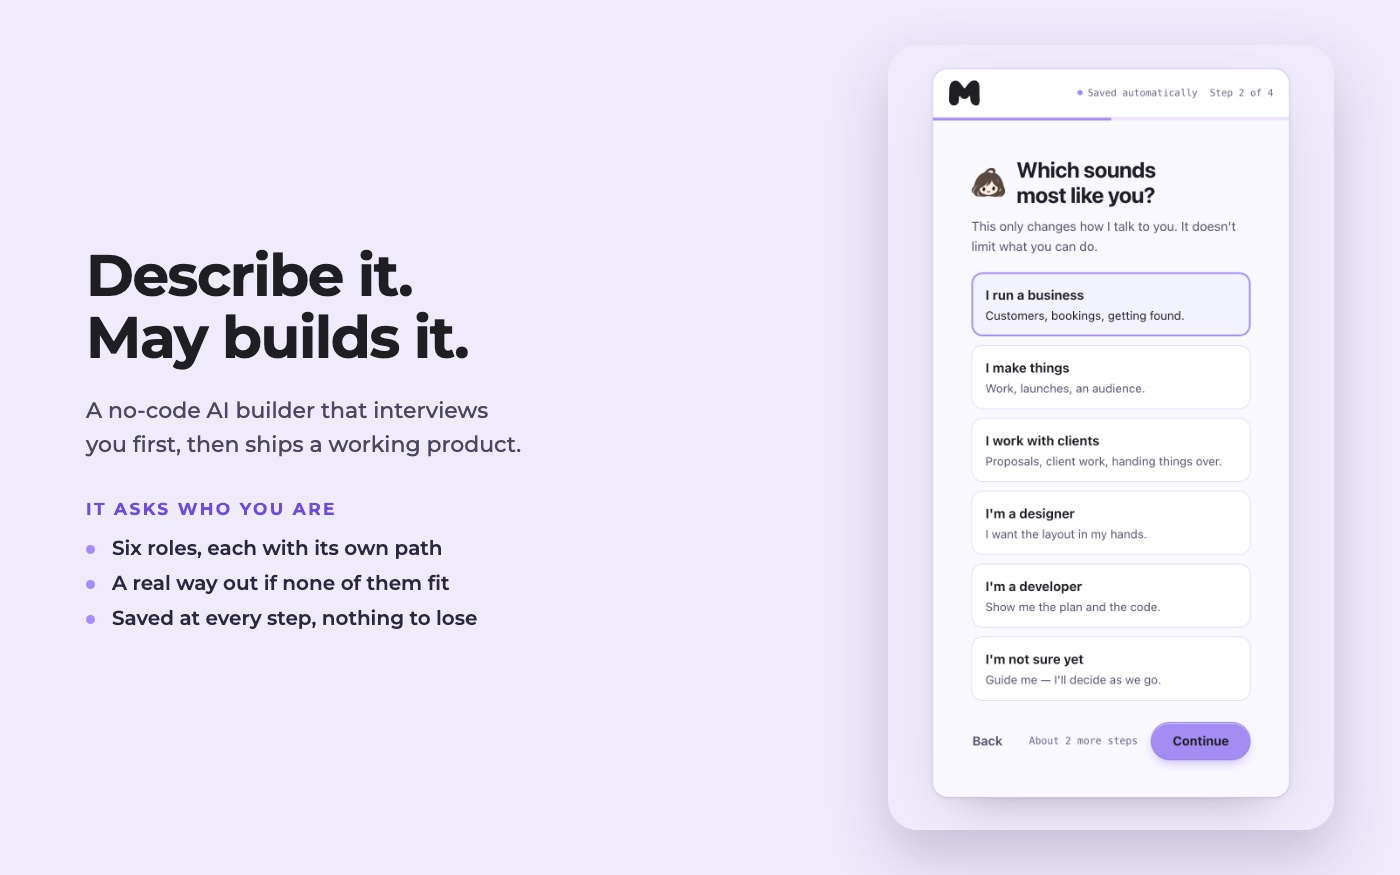
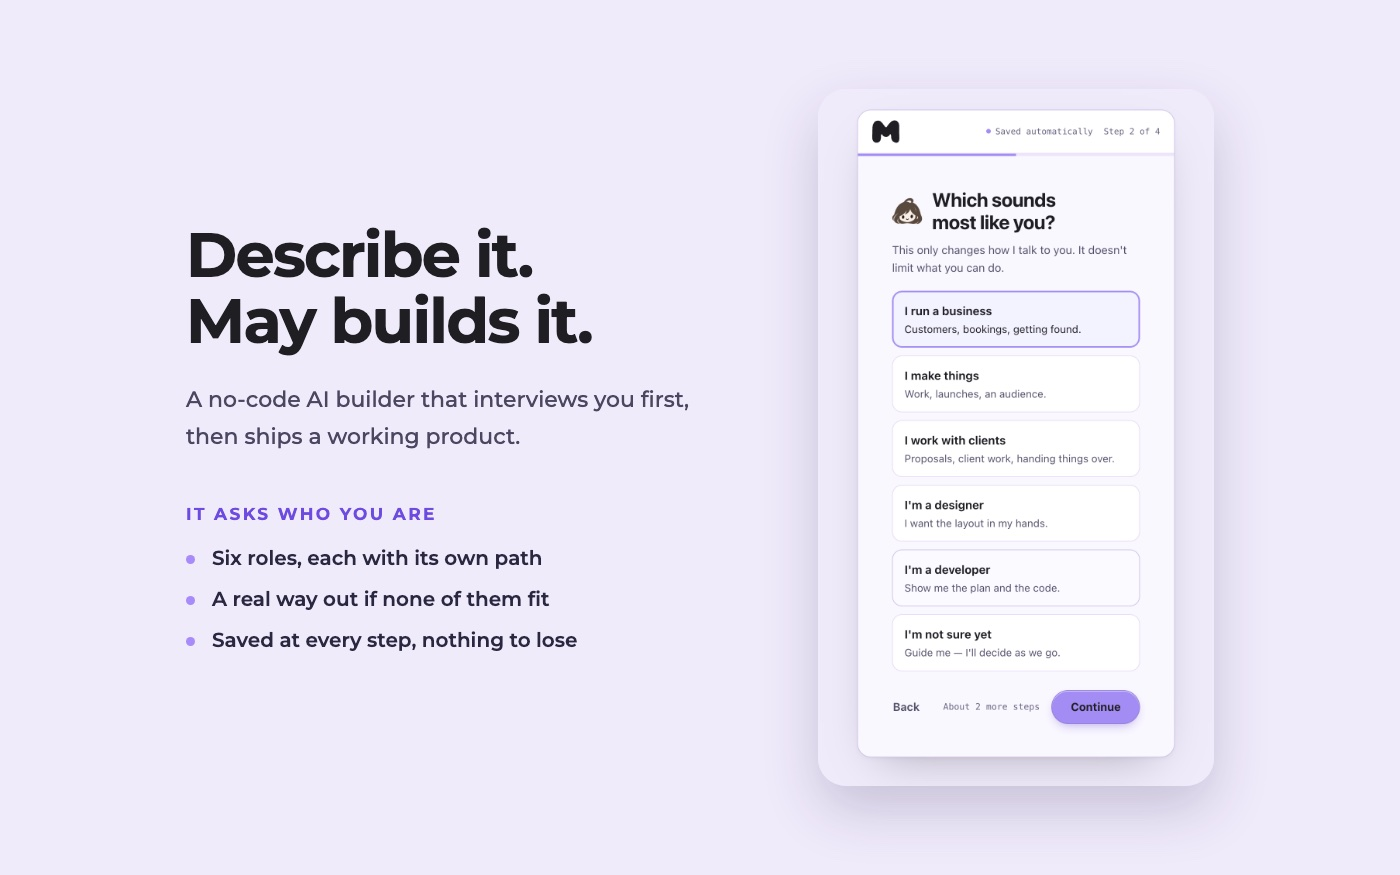
Fix the May card composition, equalise the cards, rebuild the type scale
May card blocks grouped and centred. All four project cards now equal.
Type ladder 96/36/30/26/16/12.5 replaces a 12-25px band; company names
lead their entries at 36px.

Changed region(s): [[0.6143, 0.0617, 0.9521, 0.9874], [0.0614, 0.2469, 0.4914, 0.5246], [0.0614, 0.5554, 0.43, 0.7406]]

diff --git a/index.html b/index.html
@@ -10,8 +10,8 @@
       <link href="img/favicon.png" rel="icon">
       <link href="https://fonts.googleapis.com/css?family=Montserrat:300,400,500,700|Open+Sans:300,300i,400,400i,700,700i" rel="stylesheet">
       <link href="css/card.css?v=d72747bf" rel="stylesheet">
-      <link href="css/style.css?v=30758c52" rel="stylesheet">
-      <link href="css/home.css?v=53620e92" rel="stylesheet">
+      <link href="css/style.css?v=acef9320" rel="stylesheet">
+      <link href="css/home.css?v=63855aa2" rel="stylesheet">
       <script type="application/ld+json">
 [
   {
@@ -192,7 +192,7 @@
                      <h3>HBO Max</h3>
                      <p class="uxe-role"><span>Software Engineer II, Frontend</span><span>Nov 2021 &ndash; Present</span></p>
                      <dl class="uxe-metrics">
-                        <div><dt>140M+</dt><dd>subscribers served</dd></div>
+                        <div><dt>140M+</dt><dd>subscribers</dd></div>
                         <div><dt>1,700+</dt><dd>live events a year</dd></div>
                         <div><dt>97&rarr;98%</dt><dd>EFSR</dd></div>
                      </dl>
@@ -271,7 +271,7 @@
                <h2 class="uxe-kicker">Selected Projects</h2>
             </div>
             <div class="proj-grid">
-               <a class="proj proj-wide" href="may.html">
+               <a class="proj" href="may.html">
                   <div class="proj-visual">
                      <img src="img/cards/may.jpg" width="1400" height="875" loading="lazy" decoding="async"
                           alt="May on a phone, step 2 of 4 of onboarding: &lsquo;Which sounds most like you?&rsquo; with six roles to choose from &mdash; run a business, make things, work with clients, designer, developer, or not sure yet &mdash; the first one selected, and the step saved automatically.">
@@ -284,7 +284,7 @@
                   </div>
                </a>
 
-               <a class="proj proj-wide" href="accessible-player.html">
+               <a class="proj" href="accessible-player.html">
                   <div class="proj-visual">
                      <img src="img/cards/player.jpg" width="1400" height="875" loading="lazy" decoding="async"
                           alt="The player demo: a dark video transport bar with a seek slider and chapter ticks, above a legend mapping every keyboard shortcut &mdash; play, seek, volume, captions and mute.">

diff --git a/css/home.css b/css/home.css
@@ -114,29 +114,12 @@ a {
   object-position: top;   /* screenshots are framed from the top edge */
 }
 
-.proj-wide {
-  grid-column: 1 / -1;
-  display: grid;
-  grid-template-columns: minmax(0, 1.08fr) minmax(0, 1fr);
-}
-
-.proj-wide .proj-visual {
-  aspect-ratio: auto;
-  border-bottom: 0;
-  border-right: 1px solid var(--uxe-rule);
-}
-
 /* The body is a column so the copy sits optically centred against a
    tall image, and so every card's name/role/description start on the
    same baseline regardless of how many lines the role row takes. */
 .proj-body {
   display: flex;
   flex-direction: column;
-}
-
-.proj-wide .proj-body {
-  justify-content: center;
-  padding: 30px 32px;
 }
 
 /* One label slot per card, always the first line of the body. PawPath
@@ -160,29 +143,11 @@ a {
   color: var(--uxe-text);
 }
 
-/* Stack the featured cards at 900, not 760. Between those two widths
-   they stayed side by side with roughly 390px per column — narrower
-   than the 16:10 screenshots inside them, so object-fit: cover sliced
-   the left and right off the player's keyboard legend. 900 also lines
-   up with where the work entries stack, so the whole page changes
-   layout at one width instead of two. */
-@media (max-width: 900px) {
-  .proj-wide {
-    grid-template-columns: minmax(0, 1fr);
-  }
-
-  .proj-wide .proj-visual {
-    aspect-ratio: 16 / 10;
-    border-bottom: 1px solid var(--uxe-rule);
-    border-right: 0;
-  }
-
-  .proj-wide .proj-body {
-    padding: 18px 20px 22px;
-  }
-}
-
-@media (max-width: 640px) {
+/* Four equal cards instead of two featured plus two. The size
+   difference was carrying no information the content did not already
+   carry, and it put the Red Dot project in the smaller tier. With all
+   four the same, two columns get cramped below 720 rather than 640. */
+@media (max-width: 720px) {
   .proj-grid { grid-template-columns: minmax(0, 1fr); }
 }
 
@@ -191,7 +156,7 @@ a {
 .proj-name {
   display: block;
   font-family: Montserrat, sans-serif;
-  font-size: 1.1rem;
+  font-size: 1.6rem;
   font-weight: 600;
   letter-spacing: -0.015em;
   line-height: 1.2;

diff --git a/css/style.css b/css/style.css
@@ -1954,14 +1954,19 @@ margin-bottom: 30px;
   text-decoration: none;
 }
 
+/* The company name was 21.6px — smaller than its own statistic below
+   it, so the page ranked a number above the employer it belonged to.
+   At 2.25rem it leads its entry, and past 32px display type needs
+   negative tracking or it reads loose. */
 .uxe-project-copy h3,
 .uxe-project-id h3 {
   color: #000;
   font-family: Montserrat, sans-serif;
-  font-size: 1.35rem;
-  font-weight: 500;
-  line-height: 1.25;
-  margin: 14px 0 8px;
+  font-size: 2.25rem;
+  font-weight: 600;
+  letter-spacing: -0.018em;
+  line-height: 1.12;
+  margin: 14px 0 10px;
   max-width: 520px;
 }
 
@@ -2585,6 +2590,11 @@ margin-bottom: 30px;
 }
 
 @media (max-width: 768px) {
+  .uxe-project-copy h3,
+  .uxe-project-id h3 {
+    font-size: 1.8rem;
+  }
+
   .uxe-hero {
     padding-top: 40px;
     padding-bottom: 52px;
@@ -2679,8 +2689,8 @@ margin-bottom: 30px;
 .uxe-metrics {
   display: flex;
   flex-wrap: wrap;
-  gap: 10px 32px;
-  margin: 0 0 16px;
+  gap: 10px 24px;
+  margin: 0 0 18px;
 }
 
 .uxe-metrics div { min-width: 0; }
@@ -2688,7 +2698,7 @@ margin-bottom: 30px;
 .uxe-metrics dt {
   color: var(--uxe-text);
   font-family: Montserrat, sans-serif;
-  font-size: 1.55rem;
+  font-size: 1.9rem;
   font-weight: 700;
   letter-spacing: -0.02em;
   line-height: 1.1;
@@ -2706,11 +2716,11 @@ margin-bottom: 30px;
   letter-spacing: 0.05em;
   line-height: 1.35;
   margin: 5px 0 0;
-  max-width: 19ch;
+  max-width: 15ch;
   text-transform: uppercase;
 }
 
 @media (max-width: 520px) {
   .uxe-metrics { gap: 12px 24px; }
-  .uxe-metrics dt { font-size: 1.35rem; }
+  .uxe-metrics dt { font-size: 1.55rem; }
 }

diff --git a/accessible-player.html b/accessible-player.html
@@ -8,8 +8,8 @@
       <link href="img/favicon.png" rel="icon">
       <link href="https://fonts.googleapis.com/css?family=Montserrat:300,400,500,700|Open+Sans:300,400,700" rel="stylesheet">
       <link href="css/card.css?v=d72747bf" rel="stylesheet">
-      <link href="css/style.css?v=30758c52" rel="stylesheet">
-      <link href="css/home.css?v=53620e92" rel="stylesheet">
+      <link href="css/style.css?v=acef9320" rel="stylesheet">
+      <link href="css/home.css?v=63855aa2" rel="stylesheet">
       <link href="css/player.css?v=3a37a387" rel="stylesheet">
       <link rel="canonical" href="https://lisagh.github.io/accessible-player.html">
       <meta property="og:type" content="article">

diff --git a/ebay-tools.html b/ebay-tools.html
@@ -10,7 +10,7 @@
       <link href="lib/bootstrap/css/bootstrap.min.css" rel="stylesheet">
       <link href="lib/font-awesome/css/font-awesome.min.css" rel="stylesheet">
       <link href="css/card.css?v=d72747bf" rel="stylesheet">
-      <link href="css/style.css?v=30758c52" rel="stylesheet">
+      <link href="css/style.css?v=acef9320" rel="stylesheet">
       <link rel="canonical" href="https://lisagh.github.io/ebay-tools.html">
       <meta property="og:type" content="article">
       <meta property="og:site_name" content="Lisha Chen">

diff --git a/hbo-max.html b/hbo-max.html
@@ -10,7 +10,7 @@
       <link href="lib/bootstrap/css/bootstrap.min.css" rel="stylesheet">
       <link href="lib/font-awesome/css/font-awesome.min.css" rel="stylesheet">
       <link href="css/card.css?v=d72747bf" rel="stylesheet">
-      <link href="css/style.css?v=30758c52" rel="stylesheet">
+      <link href="css/style.css?v=acef9320" rel="stylesheet">
       <link rel="canonical" href="https://lisagh.github.io/hbo-max.html">
       <meta property="og:type" content="article">
       <meta property="og:site_name" content="Lisha Chen">

diff --git a/deere.html b/deere.html
@@ -10,7 +10,7 @@
       <link href="lib/bootstrap/css/bootstrap.min.css" rel="stylesheet">
       <link href="lib/font-awesome/css/font-awesome.min.css" rel="stylesheet">
       <link href="css/card.css?v=d72747bf" rel="stylesheet">
-      <link href="css/style.css?v=30758c52" rel="stylesheet">
+      <link href="css/style.css?v=acef9320" rel="stylesheet">
       <link rel="canonical" href="https://lisagh.github.io/deere.html">
       <meta property="og:type" content="article">
       <meta property="og:site_name" content="Lisha Chen">

diff --git a/exploring.html b/exploring.html
@@ -19,7 +19,7 @@
       <link href="lib/magnific-popup/magnific-popup.css" rel="stylesheet">
       <!-- Main Stylesheet File -->
       <link href="css/card.css?v=d72747bf" rel="stylesheet">
-      <link href="css/style.css?v=30758c52" rel="stylesheet">
+      <link href="css/style.css?v=acef9320" rel="stylesheet">
       <style type="text/css">
          .column {
          -ms-flex: 25%; /* IE10 */

diff --git a/iot.html b/iot.html
@@ -19,7 +19,7 @@
     <link href="lib/magnific-popup/magnific-popup.css" rel="stylesheet">
     <!-- Main Stylesheet File -->
     <link href="css/card.css?v=d72747bf" rel="stylesheet">
-    <link href="css/style.css?v=30758c52" rel="stylesheet">
+    <link href="css/style.css?v=acef9320" rel="stylesheet">
     <style type="text/css">
     .column {
     -ms-flex: 25%; /* IE10 */

diff --git a/newfields.html b/newfields.html
@@ -19,7 +19,7 @@
     <link href="lib/magnific-popup/magnific-popup.css" rel="stylesheet">
     <!-- Main Stylesheet File -->
     <link href="css/card.css?v=d72747bf" rel="stylesheet">
-    <link href="css/style.css?v=30758c52" rel="stylesheet">
+    <link href="css/style.css?v=acef9320" rel="stylesheet">
     <style type="text/css">
     .column {
     -ms-flex: 25%; /* IE10 */
